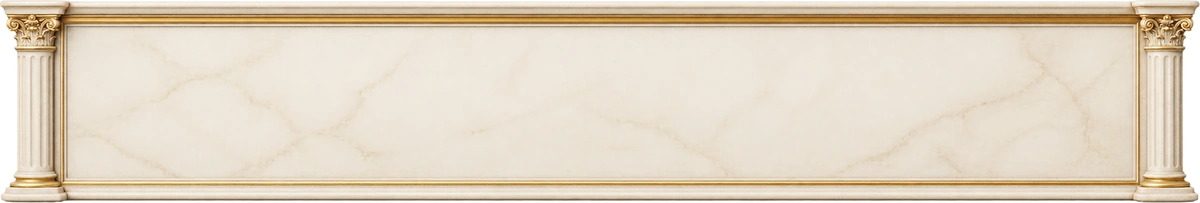
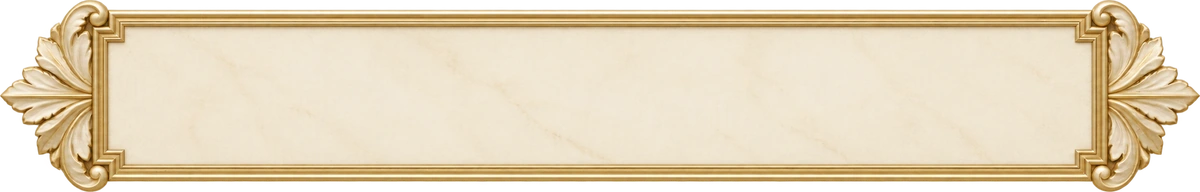
plate: the museum's name stands on Nobel-hall_plate-v3
Trimmed to its own edges first, as the last one was: the canvas carries more
than the plate's own height again in transparent margin, and stretched whole
the plate would be drawn at a third the size of the thing it is the ground
for. Trimmed it is 2136x342 — six and a quarter to one, an acanthus at each
end — with its marble panel from 9.0% to 90.9% across and 14.1% to 84.9%
down, both centred to within half a per cent. Measured off the file's own gold
rule rather than guessed.

That panel is a shade wider per unit of height than a line of Han, so the box
is one and a half times the name's width rather than one and a quarter: the
panel comes out 180x25 for a 147x22 name, which is a sixth of the name's width
clear at each end and a third of the line clear above and below. Checked in
both languages, on the hall's folded name and on every page's mark.

diff --git a/src/styles/bright.css b/src/styles/bright.css
@@ -294,13 +294,19 @@ html[data-theme='bright'] {
    languages.
 
    The file is trimmed to the plate's own edges first — its canvas carries
-   half its height again in transparent margin, and stretched whole to a box
-   the plate would be drawn at half the size of the thing it is the ground
-   for. Trimmed it is 2132x360, and its marble panel runs from 4.3% to 95.0%
-   across between the two columns and very nearly the full height. So a box
-   1.22 times the name's width leaves the panel wider than the name on each
-   side and the picture's own 5.92:1 decides the height. Stretched to the box
-   with 100% 100% rather than `contain`, which would letterbox the columns and
+   more than its own height again in transparent margin, and stretched whole
+   to a box the plate would be drawn at a third the size of the thing it is
+   the ground for. Trimmed it is 2136x342, six and a quarter to one, with an
+   acanthus at each end; its marble panel runs from 9.0% to 90.9% across and
+   14.1% to 84.9% down, both centred to within half a per cent — measured off
+   the file's own gold rule rather than guessed.
+
+   The panel is therefore 81.9% of the width and 70.8% of the height, which
+   makes it a shade wider per unit of height than a line of Han is. A box one
+   and a half times the name's width is what balances the two: the panel comes
+   out 180 x 25 for a 147 x 22 name, so the margin is a sixth of the name each
+   side and a third of the line above and below it. Stretched to the box with
+   100% 100% rather than `contain`, which would letterbox the ornaments and
    leave the panel off-centre inside it.
    ============================================================ */
 html[data-theme='bright'] :is(.bh__lockup[data-small] .bh__title, .gr__lock-name) {
@@ -314,8 +320,8 @@ html[data-theme='bright'] :is(.bh__lockup[data-small] .bh__title, .gr__lock-name
   inset-inline-start: 50%;
   inset-block-start: 50%;
   translate: -50% -50%;
-  inline-size: 122%;
-  aspect-ratio: 2132 / 360;
+  inline-size: 150%;
+  aspect-ratio: 2136 / 342;
   background: var(--plate) center / 100% 100% no-repeat;
   pointer-events: none;
 }
